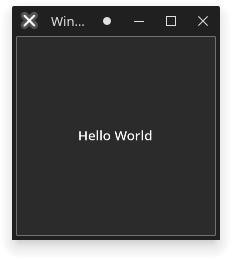
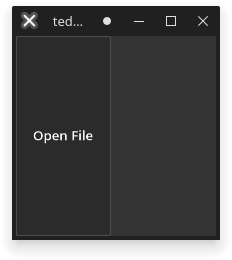
first button, app id

Changed region(s): [[0.0603, 0.0615, 0.9353, 0.9231]]

diff --git a/tedditor.c b/tedditor.c
@@ -1,38 +1,37 @@
 #include <gtk/gtk.h>
 
-static void
-print_hello (GtkWidget *widget,
-             gpointer   data)
+static void print_hello (GtkWidget *widget, gpointer data)
 {
-  g_print ("Hello World\n");
+  g_print ("Warning: Not yet implemented\n");
 }
 
-static void
-activate (GtkApplication *app,
-          gpointer        user_data)
+static void activate (GtkApplication* app, gpointer user_data)
 {
   GtkWidget *window;
   GtkWidget *button;
+  GtkWidget *box;
 
   window = gtk_application_window_new (app);
-  gtk_window_set_title (GTK_WINDOW (window), "Window");
+  gtk_window_set_title (GTK_WINDOW (window), "tedditor");
   gtk_window_set_default_size (GTK_WINDOW (window), 200, 200);
 
-  button = gtk_button_new_with_label ("Hello World");
-  g_signal_connect (button, "clicked", G_CALLBACK (print_hello), NULL);
-  gtk_window_set_child (GTK_WINDOW (window), button);
+  box = gtk_box_new (GTK_ORIENTATION_HORIZONTAL, 0);
+  gtk_window_set_child (GTK_WINDOW (window), box);
 
-  gtk_window_present (GTK_WINDOW (window));
+  button = gtk_button_new_with_label ("Open File");
+  g_signal_connect (button, "clicked", G_CALLBACK (print_hello), NULL);
+  g_signal_connect_swapped (button, "clicked", G_CALLBACK (gtk_window_destroy), window);
+  gtk_box_append (GTK_BOX (box), button);
+
+  gtk_widget_show (window);
 }
 
-int
-main (int    argc,
-      char **argv)
+int main (int argc, char **argv)
 {
   GtkApplication *app;
   int status;
 
-  app = gtk_application_new ("org.gtk.example", G_APPLICATION_FLAGS_NONE);
+  app = gtk_application_new ("com.github.erdragh.tedditor", G_APPLICATION_FLAGS_NONE);
   g_signal_connect (app, "activate", G_CALLBACK (activate), NULL);
   status = g_application_run (G_APPLICATION (app), argc, argv);
   g_object_unref (app);
